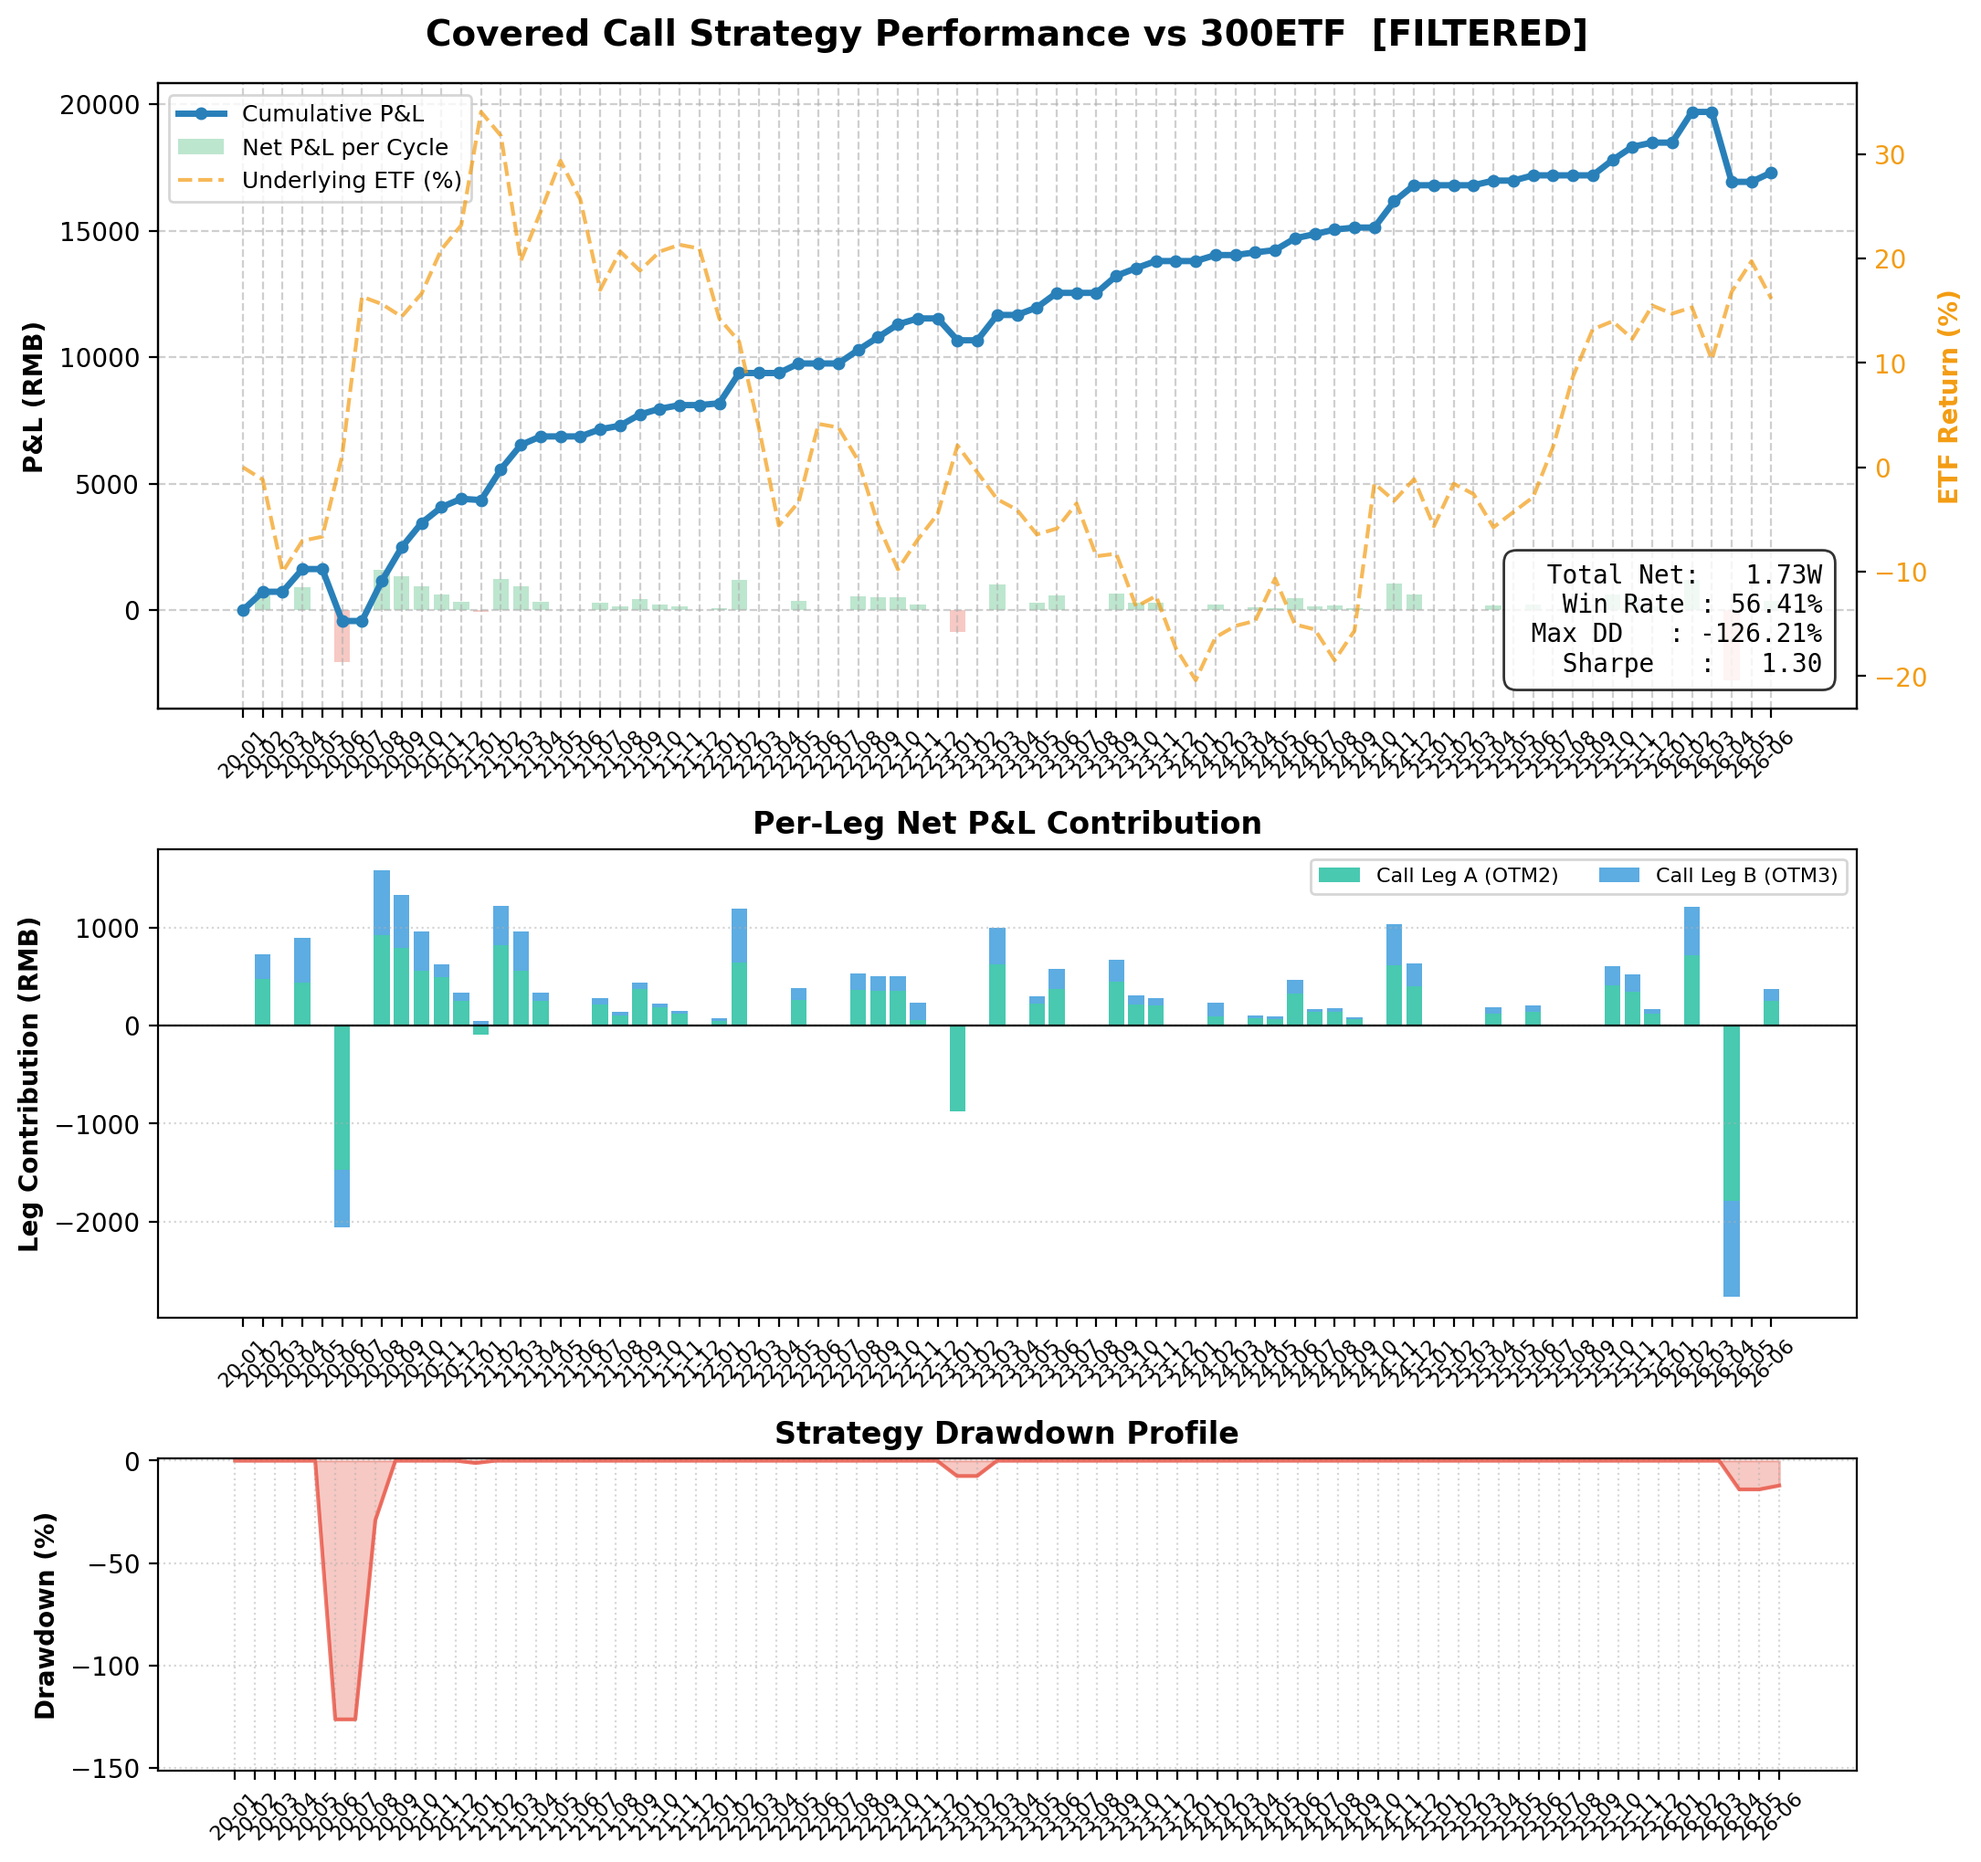
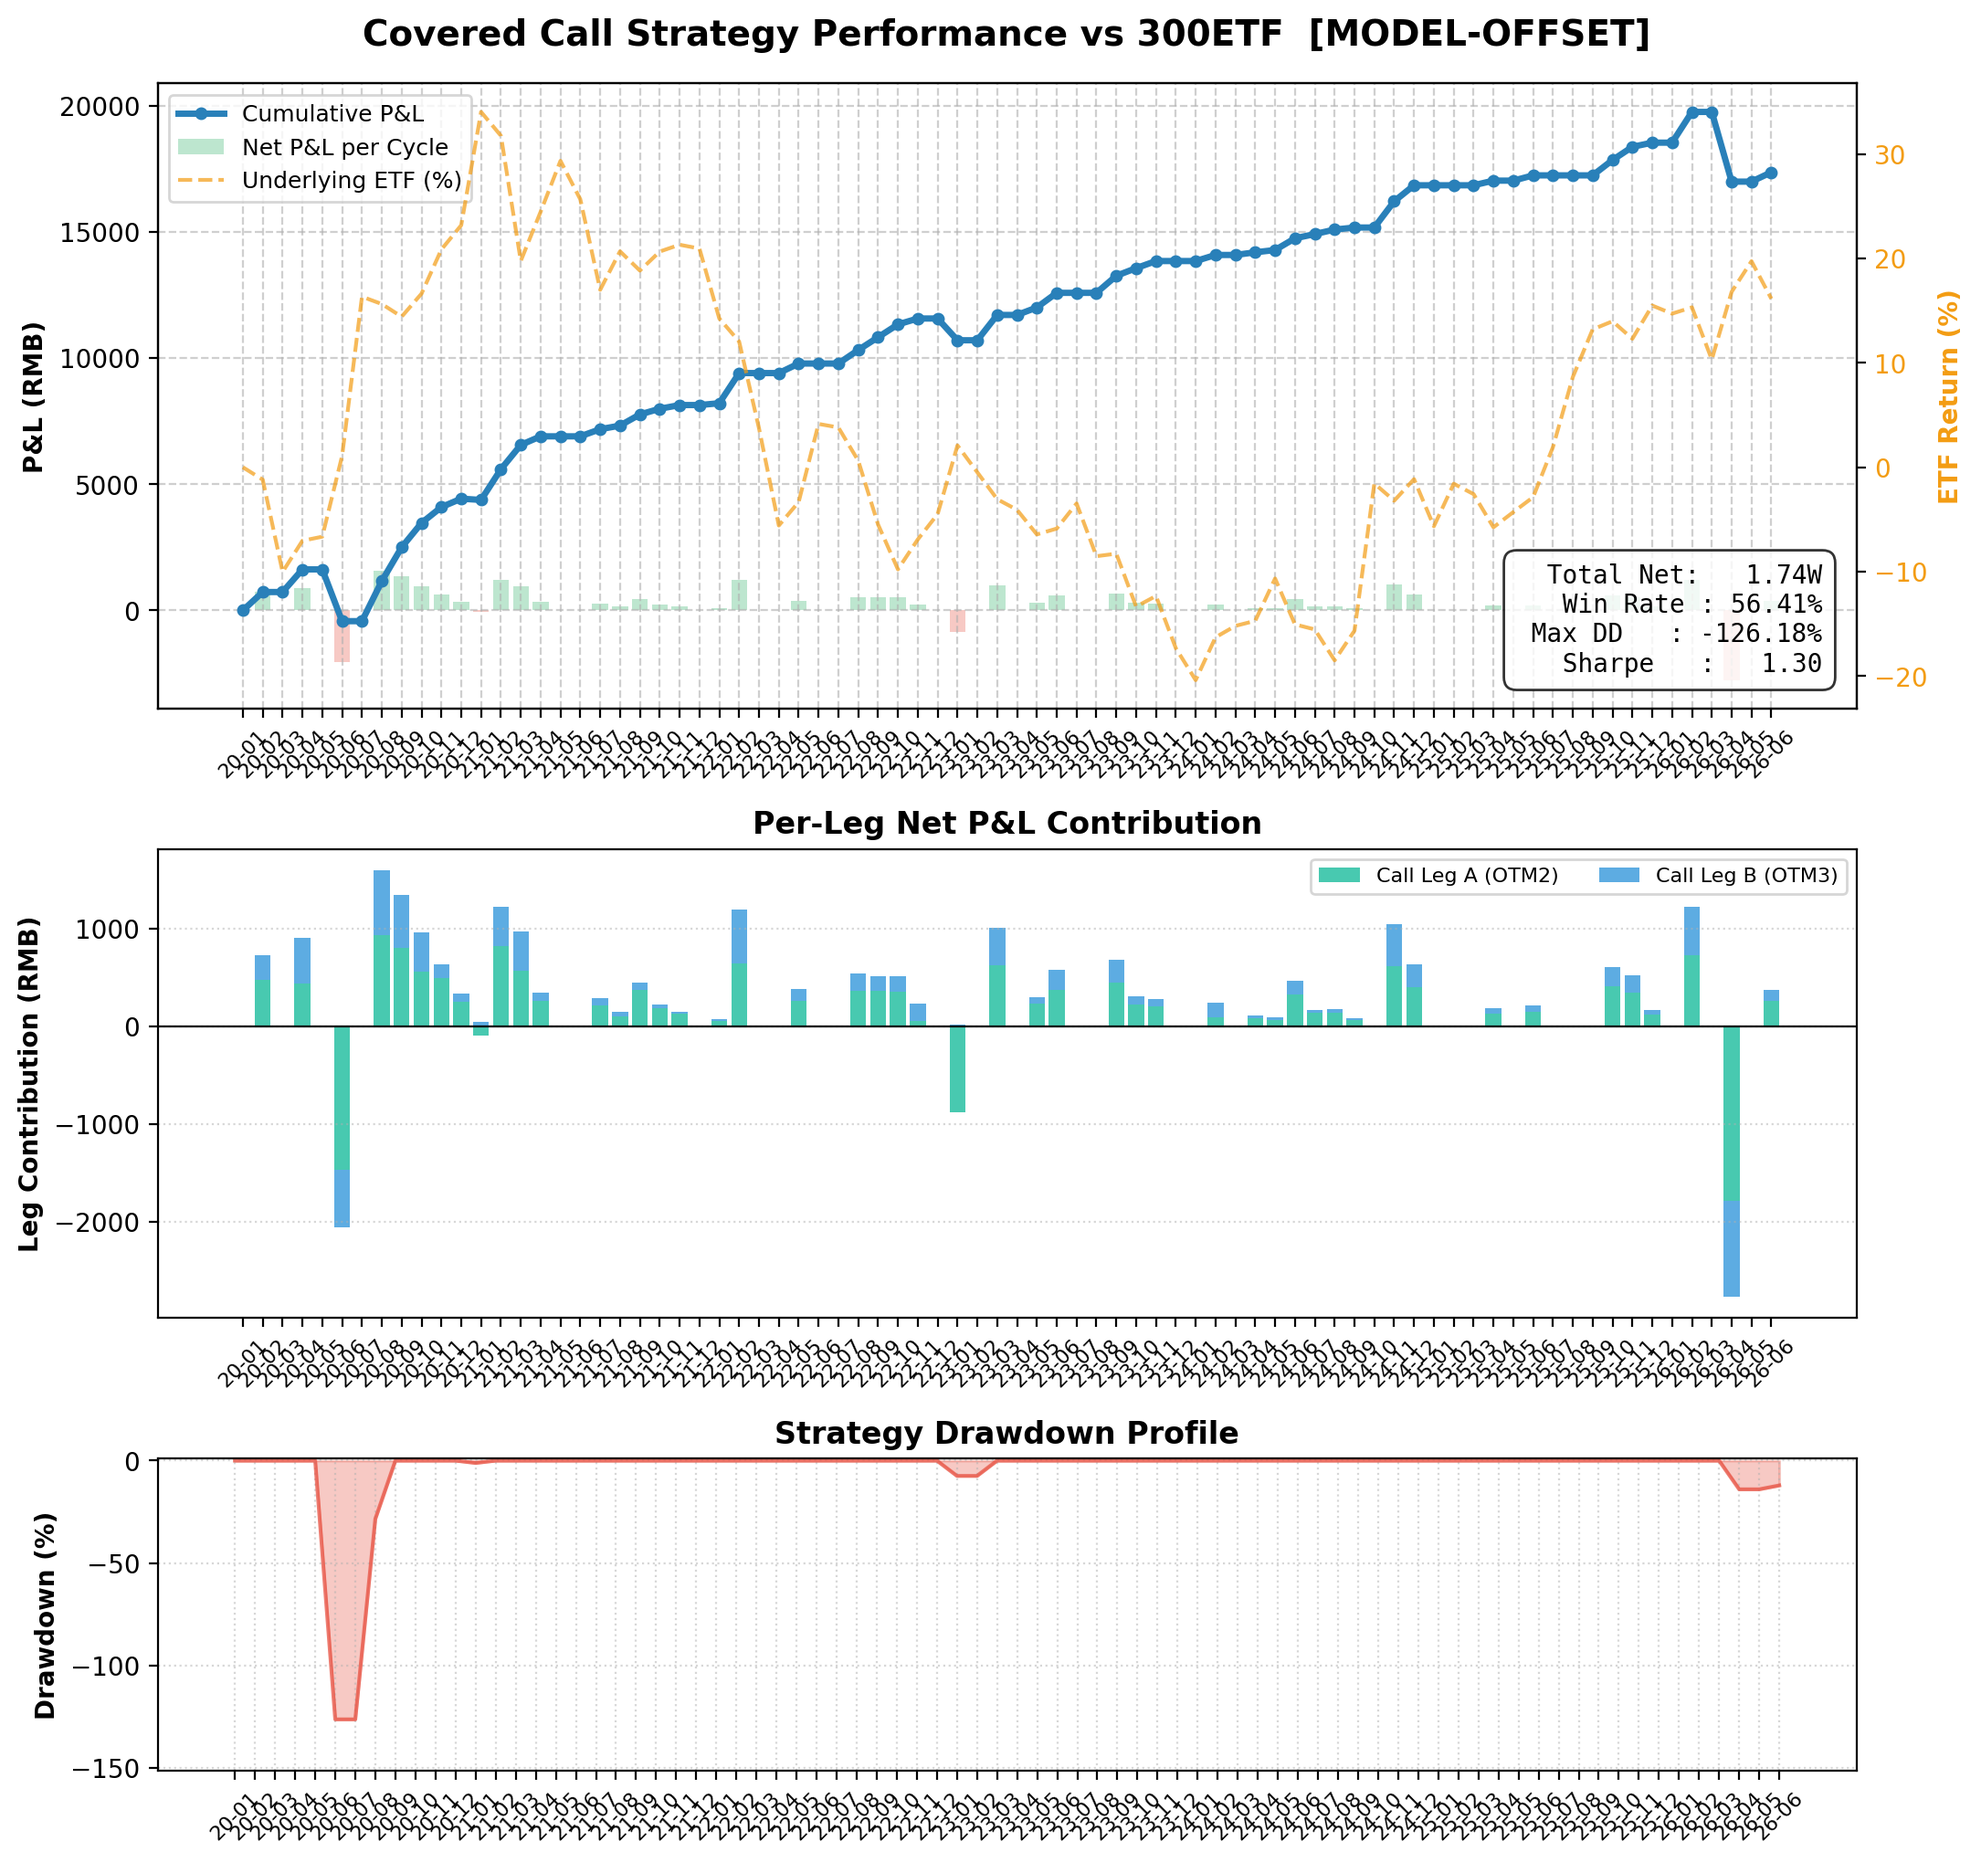
process

Changed region(s): [[0.1853, 0.0, 0.834, 0.0309], [0.0309, 0.0309, 0.0618, 0.0618]]

diff --git a/backtest_covered_call.py b/backtest_covered_call.py
@@ -500,11 +500,16 @@ def calc_leg_pnl(leg, opt, etf, expiry_date, side, is_buyer_at_expiry, sell_spre
         contract = contract[:-2]
 
     # Execution price with spread
-    spread = sell_spread if (sell_spread is not None and side == "sell") else SPREAD_HALF
-    if side == "sell":
-        exec_px = entry_mid * (1 - spread)   # we sell at bid (or model limit)
+    # sell_spread is not None when model-offset limit orders are active:
+    #   Limit orders don't cross the bid-ask spread — we sell at mid price.
+    #   The model only predicts whether the limit will fill (90% confidence),
+    #   not a price discount. Only commission applies as transaction cost.
+    if sell_spread is not None and side == "sell":
+        exec_px = entry_mid   # limit order: sell at mid, no spread slippage
+    elif side == "sell":
+        exec_px = entry_mid * (1 - SPREAD_HALF)   # market order: sell at bid
     else:
-        exec_px = entry_mid * (1 + SPREAD_HALF)   # we buy at ask
+        exec_px = entry_mid * (1 + SPREAD_HALF)   # buy at ask
 
     # Premium in RMB (positive = cash received, negative = paid)
     if side == "sell":
@@ -821,12 +826,15 @@ def run_backtest(opt, etf):
 
     # ── Per-cycle detail printout ──────────────────────────────────────────────
     print("\n" + "=" * 70)
+    # Build mode label from active flags
+    mode_parts = []
     if DYNAMIC_ALPHA_MODE:
-        mode_label = "DYNAMIC ALPHA MODE (dynamic OTM offsets)"
-    elif USE_MODEL_OFFSET:
-        mode_label = "MODEL OFFSET MODE (open-high P10 limit orders)"
-    else:
-        mode_label = "NO-FILTER MODE (always sell OTM2+OTM3)" if NO_FILTER_MODE else "FILTERED MODE (RSI+BBU)"
+        mode_parts.append("DYNAMIC ALPHA (dynamic OTM offsets)")
+    if USE_MODEL_OFFSET:
+        mode_parts.append("MODEL OFFSET (open-high P10 limit orders)")
+    if not mode_parts:
+        mode_parts.append("NO-FILTER (always sell OTM2+OTM3)" if NO_FILTER_MODE else "FILTERED (RSI+BBU)")
+    mode_label = " + ".join(mode_parts)
     print(f"  备兑期权 BACKTEST — Cycle Detail  [{mode_label}]")
     print("=" * 70)
 
@@ -875,12 +883,15 @@ def run_backtest(opt, etf):
     filter_lift = avg_pnl_placed - avg_pnl_all
 
     print("\n" + "=" * 70)
+    # Build summary label from active flags
+    sum_parts = []
     if DYNAMIC_ALPHA_MODE:
-        mode_label_sum = "DYNAMIC ALPHA"
-    elif USE_MODEL_OFFSET:
-        mode_label_sum = "MODEL OFFSET"
-    else:
-        mode_label_sum = "NO-FILTER" if NO_FILTER_MODE else "FILTERED"
+        sum_parts.append("DYNAMIC ALPHA")
+    if USE_MODEL_OFFSET:
+        sum_parts.append("MODEL OFFSET")
+    if not sum_parts:
+        sum_parts.append("NO-FILTER" if NO_FILTER_MODE else "FILTERED")
+    mode_label_sum = " + ".join(sum_parts)
     print(f"  SUMMARY  [{mode_label_sum}]")
     print("=" * 70)
     print(f"  Cycles traded          : {len(results)}")
@@ -1007,7 +1018,14 @@ def plot_backtest_results(results, etf, out_path):
              bbox=dict(boxstyle='round,pad=0.5', facecolor='white', alpha=0.8),
              fontsize=10, family='monospace')
     
-    mode_str = "NO-FILTER" if NO_FILTER_MODE else "FILTERED"
+    chart_parts = []
+    if DYNAMIC_ALPHA_MODE:
+        chart_parts.append("ALPHA")
+    if USE_MODEL_OFFSET:
+        chart_parts.append("MODEL-OFFSET")
+    if not chart_parts:
+        chart_parts.append("NO-FILTER" if NO_FILTER_MODE else "FILTERED")
+    mode_str = "+".join(chart_parts)
     ax1.set_title(f"Covered Call Strategy Performance vs {ETF_NAME}  [{mode_str}]", fontsize=14, fontweight='bold', pad=15)
 
     # ── MIDDLE PANEL ──────────────────────────────────────────────────────────

diff --git a/predict_open_high.py b/predict_open_high.py
@@ -1,8 +1,12 @@
 """
-predict_open_high.py — Production Open-to-High Limit Order Prediction System
+predict_open_high.py - Production Open-to-High Limit Order Prediction System
 ============================================================================
 Predicts the 10th percentile of (High - Open) / Open using quantile regression
 and LightGBM, enabling 90% fill-rate limit sell orders for covered call entry.
+
+When used with --model-offset in backtest_covered_call.py, sell legs execute at
+mid price (no bid-ask spread slippage). The model only predicts whether the
+limit order will fill, not a price discount. Only commission applies as cost.
 
 Usage:
     python predict_open_high.py -e 300        # Train & validate for 300ETF

diff --git a/AGENTS.md b/AGENTS.md
@@ -97,7 +97,7 @@ README.md                      # English README (links to Chinese docs)
 - Ensemble if models are within 5% CV loss; otherwise picks the winner
 - Rolling validation (expanding window, retrain every 60 days) with coverage calibration
 - Best features across ETFs: `open_ema5_div` (divergence from EMA5), `roc5`, `gap_pct`, `roc10`
-- `--model-offset` in backtest: replaces fixed ±2% spread with model-predicted limit order offset for sell-side execution
+- `--model-offset` in backtest: replaces fixed ±2% spread with limit order execution (sell at mid price, no spread slippage, only commission). The model predicts whether the limit will fill (90% confidence). Improves P&L by +2.1% to +4.2% across ETFs.
 
 **Synthetic options:** Generated via [generate_synthetic_options.py](file:///home/hallo/Documents/option-longterm/generate_synthetic_options.py) (calling `numba_utils.process_synthetic_strikes_loop()`). Interpolates IV between two expiries to create constant-maturity synthetic contracts.
 - **Data Pricing & Dividend Adjustment (Critical)**: Must use unadjusted ETF prices and daily-correct option strikes at entry to calculate option prices/IVs. At expiry, options are adjusted for dividends by scaling the unadjusted underlying price by $\frac{f_{expiry}}{f_{entry}}$ (where $f_t = S_{post, t} / S_{none, t}$ is the daily cumulative adjustment factor downloaded from `rqdatac`), keeping the nominal strikes clean and unadjusted.

diff --git a/README.md b/README.md
@@ -136,8 +136,8 @@ When selling a covered call at market open, you place a limit sell order. The st
 
 | ETF | Standard P&L | Model Offset P&L | Improvement |
 |-----|-------------|-----------------|-------------|
-| 300ETF | 16,868 RMB | 17,303 RMB | **+435 (+2.6%)** |
-| 50ETF | 7,317 RMB | 7,579 RMB | **+262 (+3.6%)** |
-| 500ETF | 16,954 RMB | 17,206 RMB | **+252 (+1.5%)** |
+| 300ETF | 16,868 RMB | 17,374 RMB | **+506 (+3.0%)** |
+| 50ETF | 7,317 RMB | 7,623 RMB | **+306 (+4.2%)** |
+| 500ETF | 16,954 RMB | 17,305 RMB | **+351 (+2.1%)** |
 
-The model-based offset is typically much tighter than the fixed 2% (mean predicted offset ~0.29% for 300ETF vs 2.0% static), meaning you sell options at better prices while still filling with high confidence.
+With limit orders there is no bid-ask spread slippage — the model only predicts whether the limit will fill (90% confidence). The only transaction cost is commission (2 RMB/leg). This means you sell options at mid price instead of mid * 0.98, gaining ~2% premium per sell leg.
